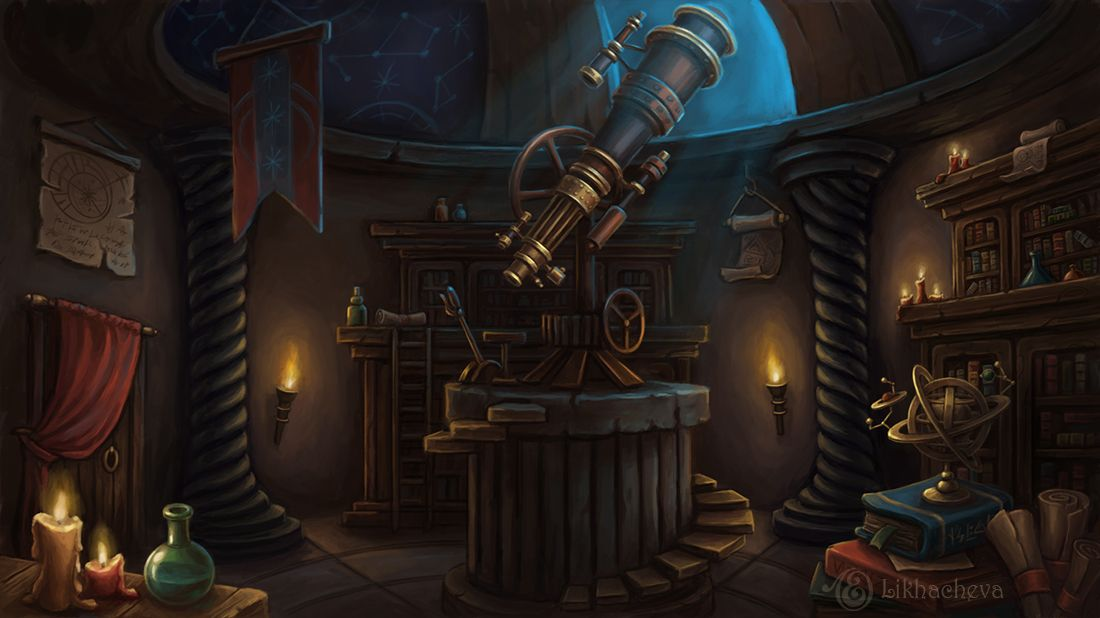
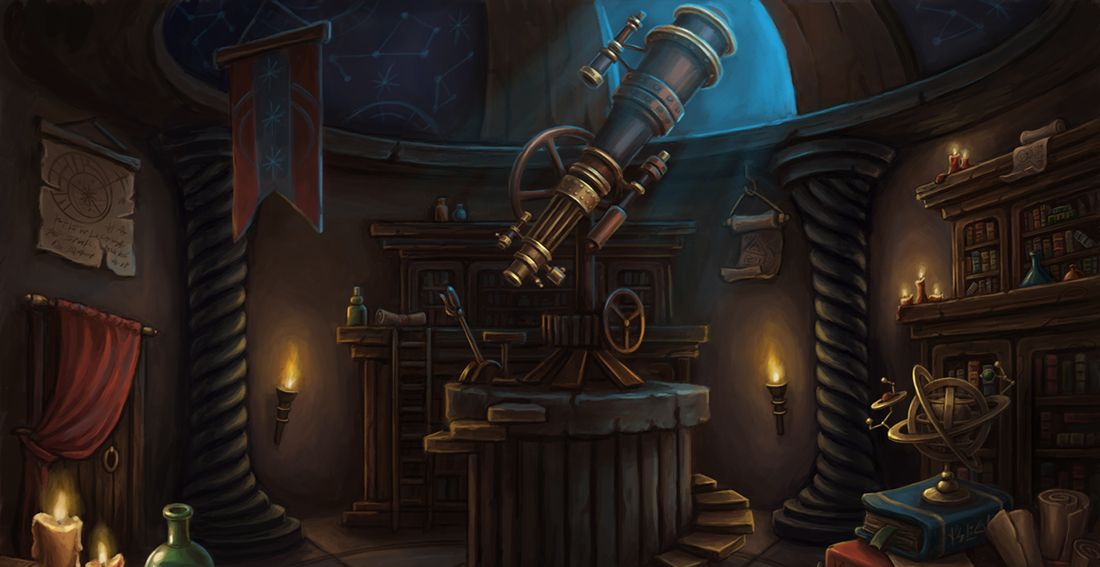
Bimblo

diff --git a/characters/scrimblo.html b/characters/scrimblo.html
@@ -10,7 +10,7 @@
 		<style>
 			body {
 				background-image: url('/data/images/Observitory.png');
-				background-position: 75% 35%;
+				background-position: 55% 0%;
 			}
 		</style>
 	</head>
